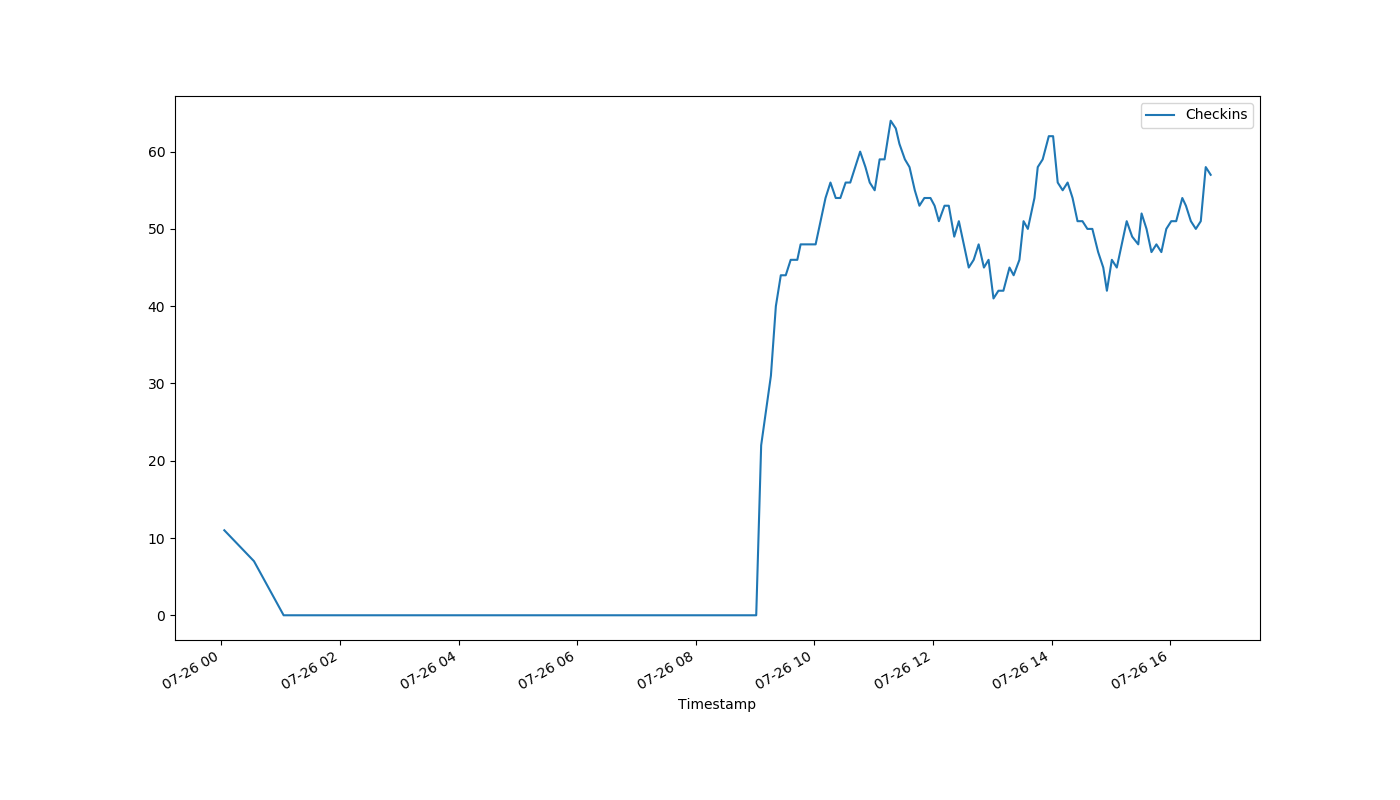
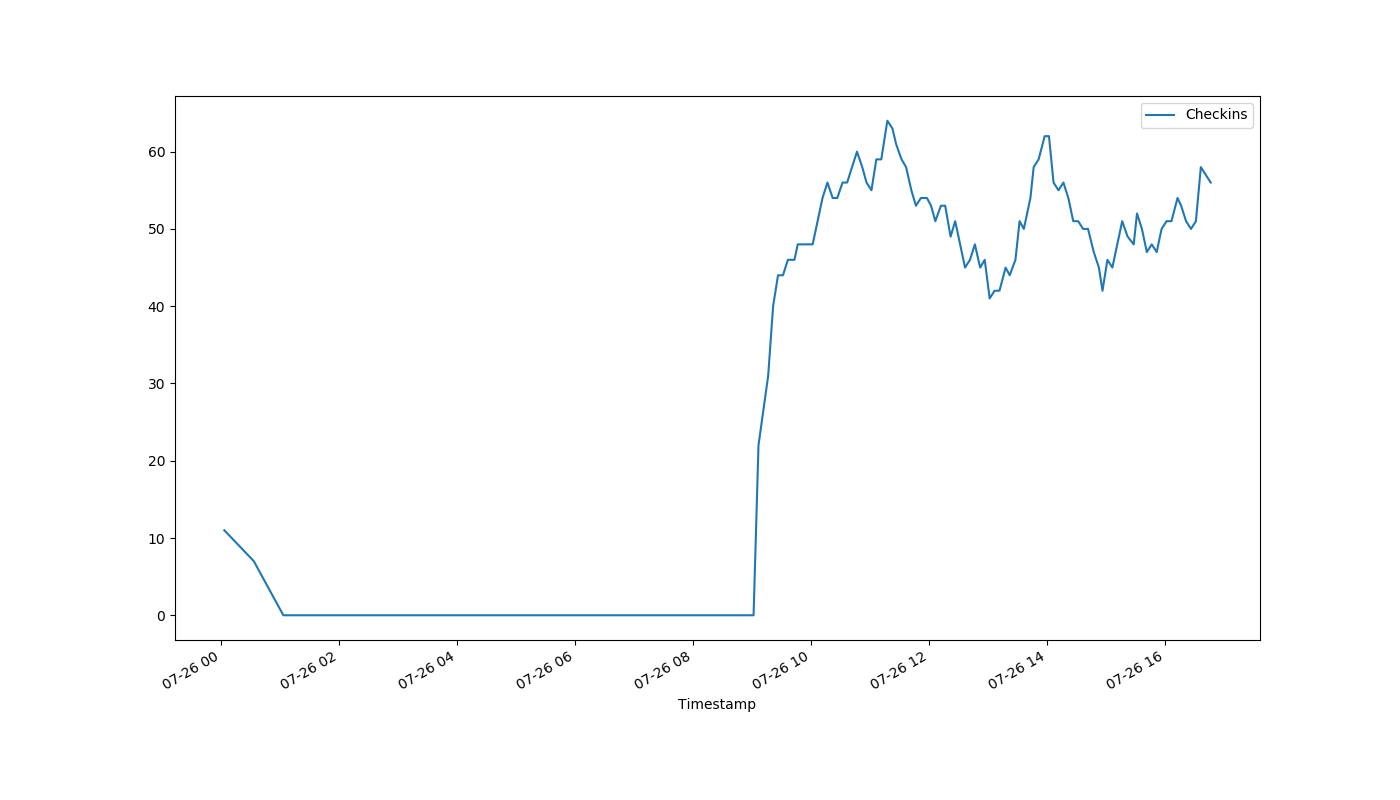
auto-Jul-26-16:46:25

diff --git a/index.html b/index.html
@@ -1,1 +1,1 @@
-<!DOCTYPE html><html><head><meta http-equiv="refresh" content="30"><link rel='stylesheet' href='holmcurrent.css'></head><body><p id='count'>57</p><div id='graph-wrap'><img id='graph' src='holmgraph-Jul-26.png'></div><p id='updated'>Last updated 16:41:11 / 16:41:03</p></body></html>
+<!DOCTYPE html><html><head><meta http-equiv="refresh" content="30"><link rel='stylesheet' href='holmcurrent.css'></head><body><p id='count'>56</p><div id='graph-wrap'><img id='graph' src='holmgraph-Jul-26.png'></div><p id='updated'>Last updated 16:46:11 / 16:46:03</p></body></html>
